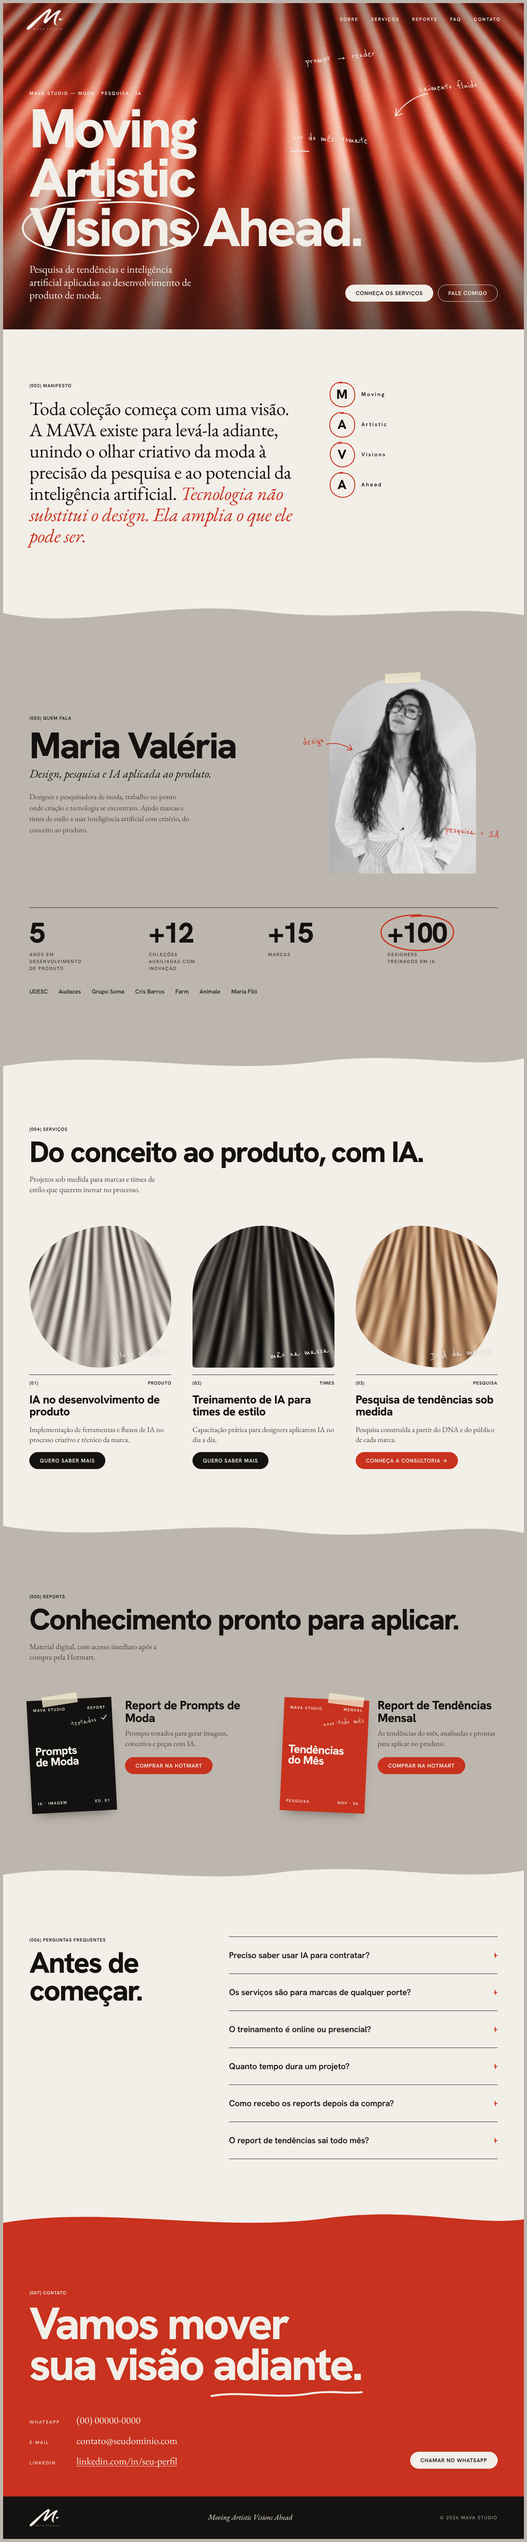
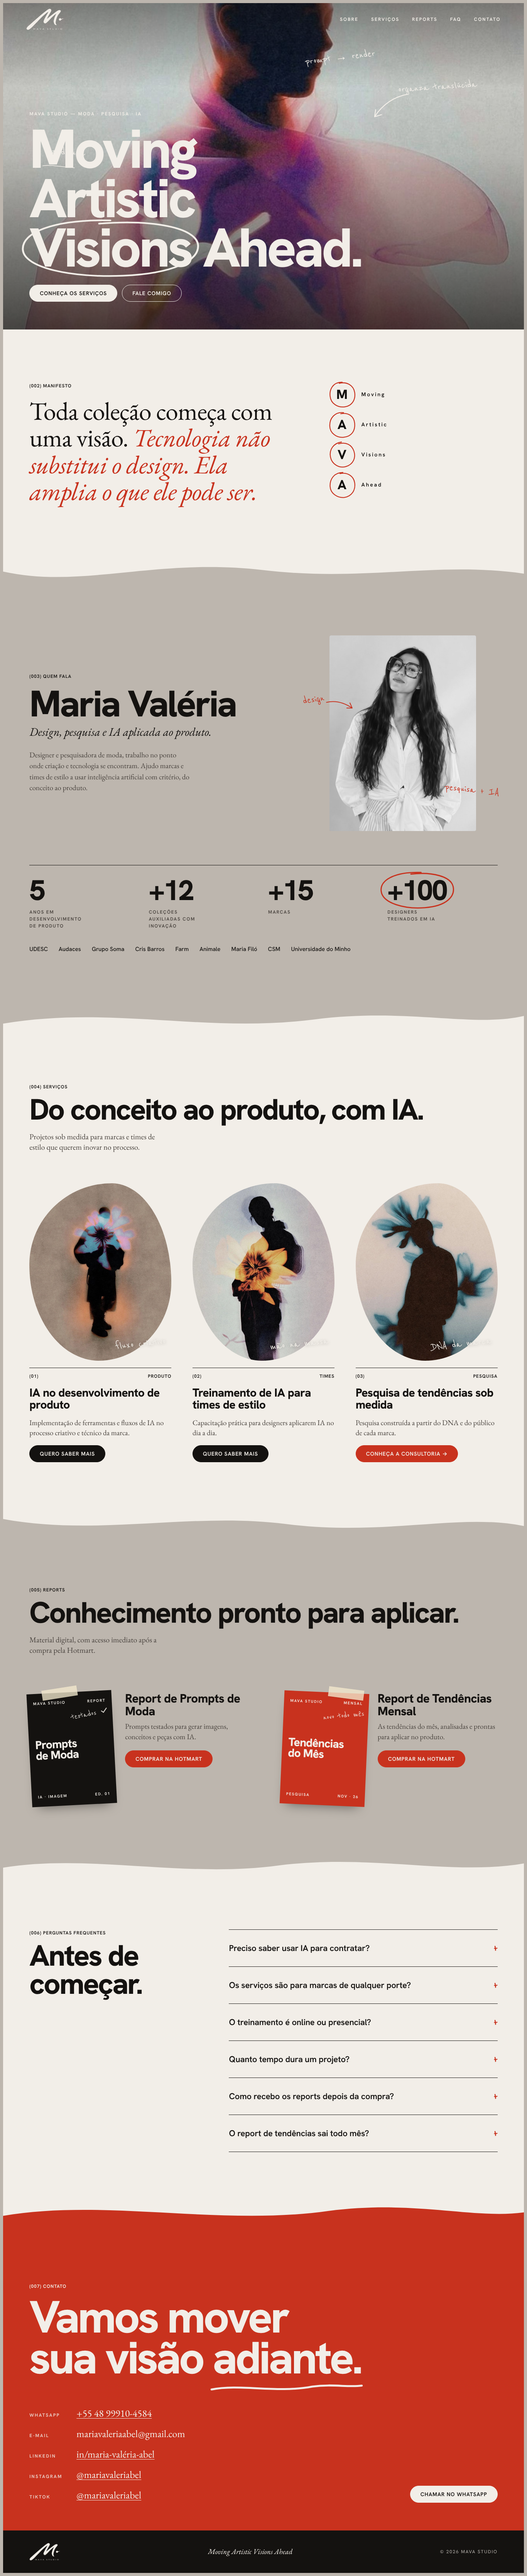
Mava Studio: fotos reais, contatos e ajustes de texto
Claude-Session: https://claude.ai/code/session_01SWMD4RNzZzqnYmBTsBk9nn

diff --git a/mava-studio/index.html b/mava-studio/index.html
@@ -120,10 +120,10 @@ img { display: block; max-width: 100%; }
   background: var(--tomato-deep);
 }
 .hero-media { position: absolute; inset: 0; }
-.hero-media canvas, .hero-media img { width: 100%; height: 100%; object-fit: cover; display: block; }
+.hero-media img { width: 100%; height: 100%; object-fit: cover; object-position: 50% 14%; display: block; }
 .hero::after {
   content: ""; position: absolute; inset: 0;
-  background: linear-gradient(180deg, rgba(20,18,16,.38) 0%, rgba(20,18,16,0) 28%, rgba(20,18,16,0) 48%, rgba(20,18,16,.62) 100%);
+  background: linear-gradient(180deg, rgba(20,18,16,.42) 0%, rgba(20,18,16,0) 26%, rgba(20,18,16,.08) 46%, rgba(20,18,16,.72) 100%);
   pointer-events: none;
 }
 .hero-content { position: relative; z-index: 2; width: 100%; padding-block: 140px clamp(48px, 8vh, 96px); }
@@ -139,7 +139,7 @@ img { display: block; max-width: 100%; }
 }
 .hero h1 .v { position: relative; display: inline-block; }
 .hero h1 .v svg { position: absolute; left: -8%; top: -14%; width: 116%; height: 132%; overflow: visible; pointer-events: none; }
-.hero-foot { margin-top: 28px; display: flex; flex-wrap: wrap; align-items: flex-end; justify-content: space-between; gap: 28px; }
+.hero-foot { margin-top: 32px; display: flex; flex-wrap: wrap; gap: 28px; }
 .hero-foot p {
   margin: 0; max-width: 34ch;
   font-family: var(--f-serif); font-size: clamp(20px, 2.1vw, 27px); line-height: 1.25;
@@ -156,7 +156,7 @@ img { display: block; max-width: 100%; }
 .manifesto blockquote {
   margin: 22px 0 0;
   font-family: var(--f-serif); font-weight: 400;
-  font-size: clamp(28px, 3.6vw, 50px); line-height: 1.12; letter-spacing: -.01em;
+  font-size: clamp(34px, 4.8vw, 68px); line-height: 1.06; letter-spacing: -.01em;
   text-wrap: pretty;
 }
 .manifesto blockquote em { color: var(--tomato); }
@@ -178,12 +178,11 @@ img { display: block; max-width: 100%; }
 .about .bio { margin: 24px 0 0; max-width: 46ch; font-family: var(--f-serif); font-size: 19px; line-height: 1.5; color: var(--ink-soft); }
 .portrait { position: relative; justify-self: center; width: min(100%, 380px); }
 .portrait .frame {
-  aspect-ratio: 280 / 376; max-width: 100%;
-  border-radius: 999px 999px 28px 28px;
+  aspect-ratio: 3 / 4; max-width: 100%;
+  border-radius: 4px;
   overflow: hidden; background: var(--taupe-deep);
 }
-.portrait .frame img { width: 100%; height: 100%; object-fit: cover; }
-.portrait .tape { top: -10px; left: 50%; transform: translateX(-50%) rotate(-3deg); }
+.portrait .frame img { width: 100%; height: 100%; object-fit: cover; object-position: 50% 20%; }
 .portrait .n { position: absolute; color: var(--tomato); font-size: 30px; }
 .portrait .n svg { position: absolute; overflow: visible; }
 .stats { margin-top: clamp(48px, 7vw, 88px); display: grid; grid-template-columns: repeat(4, minmax(0, 1fr)); gap: 24px; border-top: 1.5px solid var(--ink); padding-top: 28px; }
@@ -206,11 +205,8 @@ img { display: block; max-width: 100%; }
 .sec-head p { margin: 0; max-width: 36ch; font-family: var(--f-serif); font-size: 20px; line-height: 1.35; color: var(--ink-soft); }
 .svc-list { margin-top: clamp(40px, 6vw, 80px); display: grid; grid-template-columns: repeat(3, minmax(0, 1fr)); gap: clamp(28px, 4vw, 56px); }
 .svc { display: flex; flex-direction: column; gap: 18px; }
-.svc .swatch { position: relative; aspect-ratio: 1 / 1; max-width: 100%; }
-.svc .swatch canvas { width: 100%; height: 100%; display: block; }
-.svc:nth-child(1) .swatch canvas { border-radius: 58% 42% 51% 49% / 46% 56% 44% 54%; }
-.svc:nth-child(2) .swatch canvas { border-radius: 999px 999px 40px 40px; }
-.svc:nth-child(3) .swatch canvas { border-radius: 42% 58% 38% 62% / 60% 40% 60% 40%; }
+.svc .swatch { position: relative; aspect-ratio: 4 / 5; max-width: 100%; }
+.svc .swatch img { width: 100%; height: 100%; object-fit: cover; display: block; border-radius: 58% 42% 51% 49% / 46% 56% 44% 54%; }
 .svc .swatch .n { position: absolute; right: 4%; bottom: 6%; color: var(--paper); font-size: 30px; transform: rotate(-6deg); text-shadow: 0 1px 8px rgba(0,0,0,.25); }
 .svc .meta { display: flex; justify-content: space-between; border-top: 1.5px solid var(--ink); padding-top: 12px; }
 .svc h3 { margin: 0; font-weight: 700; font-size: clamp(24px, 2.2vw, 30px); line-height: 1.05; letter-spacing: -.02em; }
@@ -295,18 +291,17 @@ footer small { font-size: 12px; letter-spacing: .14em; text-transform: uppercase
 </header>
 
 <main id="topo">
-  <!-- (001) Abertura: para usar uma foto, troque o <canvas> por <img src="assets/sua-foto.jpg" alt=""> -->
   <section class="hero" aria-label="Abertura">
-    <div class="hero-media"><canvas id="heroFabric" width="420" height="280" aria-hidden="true"></canvas></div>
+    <div class="hero-media"><img src="assets/capa.jpg" alt="Figura envolta em organza rosa e lilás, com flores brancas sobrepostas"></div>
 
     <div class="hero-notes" aria-hidden="true">
       <div class="note hand n1" style="right: 9%; top: 24%;">
-        caimento fluido
+        organza translúcida
         <svg class="sketch draw" width="120" height="90" style="left: -96px; top: 22px;" viewBox="0 0 120 90"><path d="M118 6 C 86 10, 54 26, 30 58 M30 58 L 34 40 M30 58 L 48 54" stroke="#F2EEE8" stroke-width="2.4"/></svg>
       </div>
-      <div class="note hand n2" style="right: 30%; top: 40%; transform: rotate(3deg);">
-        cor do mês: tomate
-        <svg class="sketch draw" width="220" height="40" style="left: -6px; top: 34px;" viewBox="0 0 220 40"><path d="M4 18 C 50 8, 120 30, 214 12" stroke="#F2EEE8" stroke-width="2.2"/></svg>
+      <div class="note hand n2" style="left: 8%; top: 44%; transform: rotate(3deg);">
+        luz difusa
+        <svg class="sketch draw" width="150" height="40" style="left: -6px; top: 34px;" viewBox="0 0 220 40"><path d="M4 18 C 50 8, 120 30, 214 12" stroke="#F2EEE8" stroke-width="2.2"/></svg>
       </div>
       <div class="note hand n3" style="left: 58%; top: 15%; transform: rotate(-7deg);">
         prompt → render
@@ -318,7 +313,6 @@ footer small { font-size: 12px; letter-spacing: .14em; text-transform: uppercase
         <div class="label">Mava Studio — Moda · Pesquisa · IA</div>
         <h1>Moving Artistic <span class="v">Visions<svg class="sketch draw" viewBox="0 0 300 120" preserveAspectRatio="none" aria-hidden="true"><path d="M150 8 C 60 6, 8 30, 10 62 C 12 96, 90 114, 170 110 C 250 106, 294 82, 290 52 C 286 22, 220 6, 132 14" stroke="#F2EEE8" stroke-width="3"/></svg></span> Ahead.</h1>
         <div class="hero-foot">
-          <p>Pesquisa de tendências e inteligência artificial aplicadas ao desenvolvimento de produto de moda.</p>
           <div class="hero-ctas">
             <a class="btn btn-paper" href="#servicos">Conheça os serviços</a>
             <a class="btn btn-ghost" href="#contato">Fale comigo</a>
@@ -333,7 +327,7 @@ footer small { font-size: 12px; letter-spacing: .14em; text-transform: uppercase
     <div class="wrap">
       <div>
         <div class="label idx" id="manifesto-t">(002) Manifesto</div>
-        <blockquote>Toda coleção começa com uma visão. A MAVA existe para levá-la adiante, unindo o olhar criativo da moda à precisão da pesquisa e ao potencial da inteligência artificial. <em>Tecnologia não substitui o design. Ela amplia o que ele pode ser.</em></blockquote>
+        <blockquote>Toda coleção começa com uma visão. <em>Tecnologia não substitui o design. Ela amplia o que ele pode ser.</em></blockquote>
       </div>
       <ul class="acro" aria-label="O que significa MAVA">
         <li><span class="ini">M<svg class="sketch" viewBox="0 0 80 80" aria-hidden="true"><path d="M40 6 C 14 6, 5 26, 7 44 C 9 66, 30 76, 48 73 C 68 70, 77 52, 74 34 C 71 14, 52 4, 32 9" stroke="#C8321E" stroke-width="2.4"/></svg></span>Moving</li>
@@ -357,8 +351,7 @@ footer small { font-size: 12px; letter-spacing: .14em; text-transform: uppercase
           <p class="bio">Designer e pesquisadora de moda, trabalho no ponto onde criação e tecnologia se encontram. Ajudo marcas e times de estilo a usar inteligência artificial com critério, do conceito ao produto.</p>
         </div>
         <figure class="portrait" style="margin: 0;">
-          <span class="tape" aria-hidden="true"></span>
-          <div class="frame"><img src="assets/retrato.jpg" alt="Retrato de Maria Valéria em preto e branco" width="280" height="376"></div>
+          <div class="frame"><img src="assets/retrato.jpg" alt="Retrato de Maria Valéria em preto e branco" width="900" height="1206"></div>
           <span class="n hand" aria-hidden="true" style="left: -18%; top: 30%; transform: rotate(-8deg);">design<svg class="sketch" width="70" height="40" style="left: 58px; top: 18px;" viewBox="0 0 70 40"><path d="M2 8 C 24 6, 46 14, 66 32 M66 32 L 52 30 M66 32 L 62 18" stroke="#C8321E" stroke-width="2"/></svg></span>
           <span class="n hand" aria-hidden="true" style="right: -16%; bottom: 18%; transform: rotate(6deg);">pesquisa + IA</span>
         </figure>
@@ -371,7 +364,7 @@ footer small { font-size: 12px; letter-spacing: .14em; text-transform: uppercase
         <div class="stat mark"><b>+100<svg class="sketch draw" viewBox="0 0 200 100" preserveAspectRatio="none" aria-hidden="true"><path d="M110 6 C 40 4, 4 26, 8 52 C 12 82, 70 96, 120 92 C 176 88, 198 64, 192 40 C 186 16, 140 4, 84 10" stroke="#C8321E" stroke-width="3"/></svg></b><span>Designers treinados em IA</span></div>
       </div>
       <ul class="brands" aria-label="Marcas e instituições com que já trabalhei">
-        <li>UDESC</li><li>Audaces</li><li>Grupo Soma</li><li>Cris Barros</li><li>Farm</li><li>Animale</li><li>Maria Filó</li>
+        <li>UDESC</li><li>Audaces</li><li>Grupo Soma</li><li>Cris Barros</li><li>Farm</li><li>Animale</li><li>Maria Filó</li><li>CSM</li><li>Universidade do Minho</li>
       </ul>
     </div>
   </section>
@@ -391,21 +384,21 @@ footer small { font-size: 12px; letter-spacing: .14em; text-transform: uppercase
 
       <div class="svc-list">
         <article class="svc">
-          <div class="swatch"><canvas class="fabric" data-pal="taupe" data-seed="3" width="300" height="300" aria-hidden="true"></canvas><span class="n hand" aria-hidden="true">fluxo criativo</span></div>
+          <div class="swatch"><img src="assets/servico-3.jpg" alt="Silhueta com flor azul e rosa luminosa sobreposta" loading="lazy"><span class="n hand" aria-hidden="true">fluxo criativo</span></div>
           <div class="meta label idx"><span>(01)</span><span>Produto</span></div>
           <h3>IA no desenvolvimento de produto</h3>
           <p>Implementação de ferramentas e fluxos de IA no processo criativo e técnico da marca.</p>
-          <a class="btn btn-ink" href="https://wa.me/5500000000000" target="_blank" rel="noopener">Quero saber mais</a>
+          <a class="btn btn-ink" href="https://wa.me/5548999104584" target="_blank" rel="noopener">Quero saber mais</a>
         </article>
         <article class="svc">
-          <div class="swatch"><canvas class="fabric" data-pal="ink" data-seed="7" width="300" height="300" aria-hidden="true"></canvas><span class="n hand" aria-hidden="true">mão na massa</span></div>
+          <div class="swatch"><img src="assets/servico-2.jpg" alt="Silhueta com flor laranja em dupla exposição" loading="lazy"><span class="n hand" aria-hidden="true">mão na massa</span></div>
           <div class="meta label idx"><span>(02)</span><span>Times</span></div>
           <h3>Treinamento de IA para times de estilo</h3>
           <p>Capacitação prática para designers aplicarem IA no dia a dia.</p>
-          <a class="btn btn-ink" href="https://wa.me/5500000000000" target="_blank" rel="noopener">Quero saber mais</a>
+          <a class="btn btn-ink" href="https://wa.me/5548999104584" target="_blank" rel="noopener">Quero saber mais</a>
         </article>
         <article class="svc">
-          <div class="swatch"><canvas class="fabric" data-pal="camel" data-seed="11" width="300" height="300" aria-hidden="true"></canvas><span class="n hand" aria-hidden="true">DNA da marca</span></div>
+          <div class="swatch"><img src="assets/servico-1.jpg" alt="Silhueta com flores azuis desfocadas ao redor" loading="lazy"><span class="n hand" aria-hidden="true">DNA da marca</span></div>
           <div class="meta label idx"><span>(03)</span><span>Pesquisa</span></div>
           <h3>Pesquisa de tendências sob medida</h3>
           <p>Pesquisa construída a partir do DNA e do público de cada marca.</p>
@@ -492,11 +485,13 @@ footer small { font-size: 12px; letter-spacing: .14em; text-transform: uppercase
       <h2 id="ct-t">Vamos mover sua visão <span class="u">adiante.<svg class="sketch draw" viewBox="0 0 300 30" preserveAspectRatio="none" aria-hidden="true"><path d="M4 18 C 60 6, 130 26, 200 12 C 240 6, 270 14, 296 10" stroke="#F2EEE8" stroke-width="4"/></svg></span></h2>
       <div class="contact-row">
         <ul class="channels">
-          <li><span class="k">WhatsApp</span><span class="v">(00) 00000-0000</span></li>
-          <li><span class="k">E-mail</span><span class="v">contato@seudominio.com</span></li>
-          <li><span class="k">LinkedIn</span><span class="v"><a href="https://www.linkedin.com/in/seu-perfil" target="_blank" rel="noopener">linkedin.com/in/seu-perfil</a></span></li>
+          <li><span class="k">WhatsApp</span><span class="v"><a href="https://wa.me/5548999104584" target="_blank" rel="noopener">+55 48 99910-4584</a></span></li>
+          <li><span class="k">E-mail</span><span class="v">mariavaleriaabel@gmail.com</span></li>
+          <li><span class="k">LinkedIn</span><span class="v"><a href="https://www.linkedin.com/in/maria-val%C3%A9ria-abel/" target="_blank" rel="noopener">in/maria-valéria-abel</a></span></li>
+          <li><span class="k">Instagram</span><span class="v"><a href="https://www.instagram.com/mariavaleriabel/" target="_blank" rel="noopener">@mariavaleriabel</a></span></li>
+          <li><span class="k">TikTok</span><span class="v"><a href="https://www.tiktok.com/@mariavaleriabel" target="_blank" rel="noopener">@mariavaleriabel</a></span></li>
         </ul>
-        <a class="btn btn-paper" href="https://wa.me/5500000000000" target="_blank" rel="noopener">Chamar no WhatsApp</a>
+        <a class="btn btn-paper" href="https://wa.me/5548999104584" target="_blank" rel="noopener">Chamar no WhatsApp</a>
       </div>
     </div>
   </section>
@@ -510,42 +505,3 @@ footer small { font-size: 12px; letter-spacing: .14em; text-transform: uppercase
   </div>
 </footer>
 
-<script>
-(function () {
-  // Tecido drapeado procedural: dobras verticais que se abrem para baixo, iluminadas pela inclinação.
-  var PALS = {
-    tomato: ["#2a0905", "#6e170c", "#b52c1a", "#d9543b", "#f1a48c", "#fbe1d4"],
-    taupe:  ["#3d3631", "#6f665e", "#a39b92", "#c9c2ba", "#e6e1da", "#f7f4ef"],
-    ink:    ["#030303", "#141210", "#2b2825", "#4f4a45", "#8c867f", "#d6d0c8"],
-    camel:  ["#3b2418", "#6e4a33", "#a57a57", "#c9a27e", "#e6cdb1", "#f8eee2"]
-  };
-  function hex(h) { return [parseInt(h.slice(1,3),16), parseInt(h.slice(3,5),16), parseInt(h.slice(5,7),16)]; }
-  function rng(seed) { var s = seed * 9301 + 49297; return function () { s = (s * 9301 + 49297) % 233280; return s / 233280; }; }
-
-  function drape(cv, palName, seed) {
-    var ctx = cv.getContext("2d"); if (!ctx) return;
-    var W = cv.width, H = cv.height, img = ctx.createImageData(W, H), d = img.data;
-    var pal = PALS[palName].map(hex), r = rng(seed), folds = [];
-    for (var k = 0; k < 6; k++) folds.push({ f: 2 + r() * 7 + k * 1.4, p: r() * 6.28, a: (1.2 - k * 0.15) * (0.6 + r() * 0.6), dr: (r() - .5) * 2.2, w: 1 + r() * 2 });
-    for (var y = 0; y < H; y++) {
-      var v = y / H, spread = 0.55 + v * 0.75;
-      for (var x = 0; x < W; x++) {
-        var u = (x / W - 0.5) / spread + 0.5, h = 0, dh = 0;
-        for (var i = 0; i < folds.length; i++) {
-          var F = folds[i], ph = u * F.f * 6.283 + F.p + v * F.dr + Math.sin(v * F.w * 3 + i) * 0.7;
-          h += F.a * Math.sin(ph); dh += F.a * F.f * Math.cos(ph);
-        }
-        var t = 0.5 + 0.42 * Math.tanh(dh * 0.05) + h * 0.06 - (1 - v) * 0.05;
-        t += (r() - 0.5) * 0.035;
-        t = Math.max(0, Math.min(0.999, t)) * (pal.length - 1);
-        var i0 = Math.floor(t), fr = t - i0, c0 = pal[i0], c1 = pal[i0 + 1], o = (y * W + x) * 4;
-        d[o] = c0[0] + (c1[0] - c0[0]) * fr; d[o+1] = c0[1] + (c1[1] - c0[1]) * fr; d[o+2] = c0[2] + (c1[2] - c0[2]) * fr; d[o+3] = 255;
-      }
-    }
-    ctx.putImageData(img, 0, 0);
-  }
-  var hero = document.getElementById("heroFabric");
-  if (hero) drape(hero, "tomato", 5);
-  document.querySelectorAll("canvas.fabric").forEach(function (c) { drape(c, c.dataset.pal, +c.dataset.seed); });
-})();
-</script>
